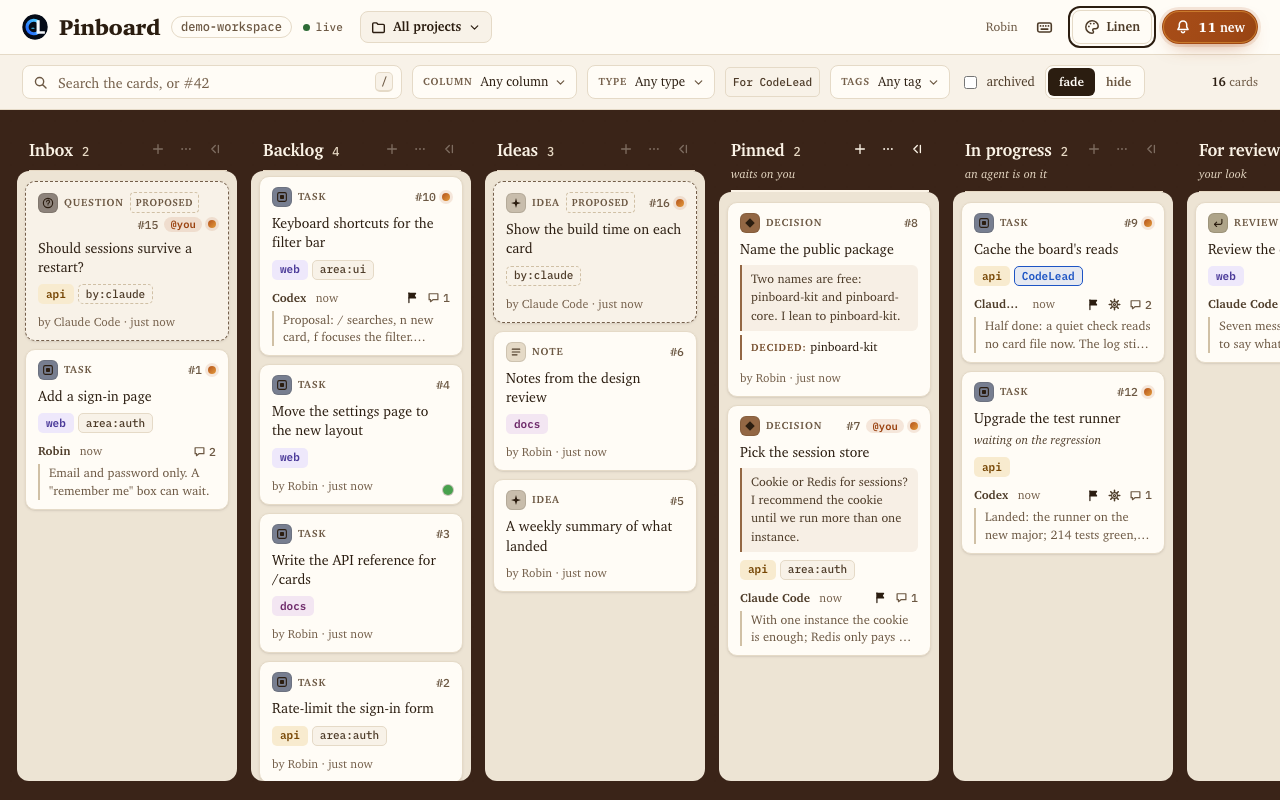
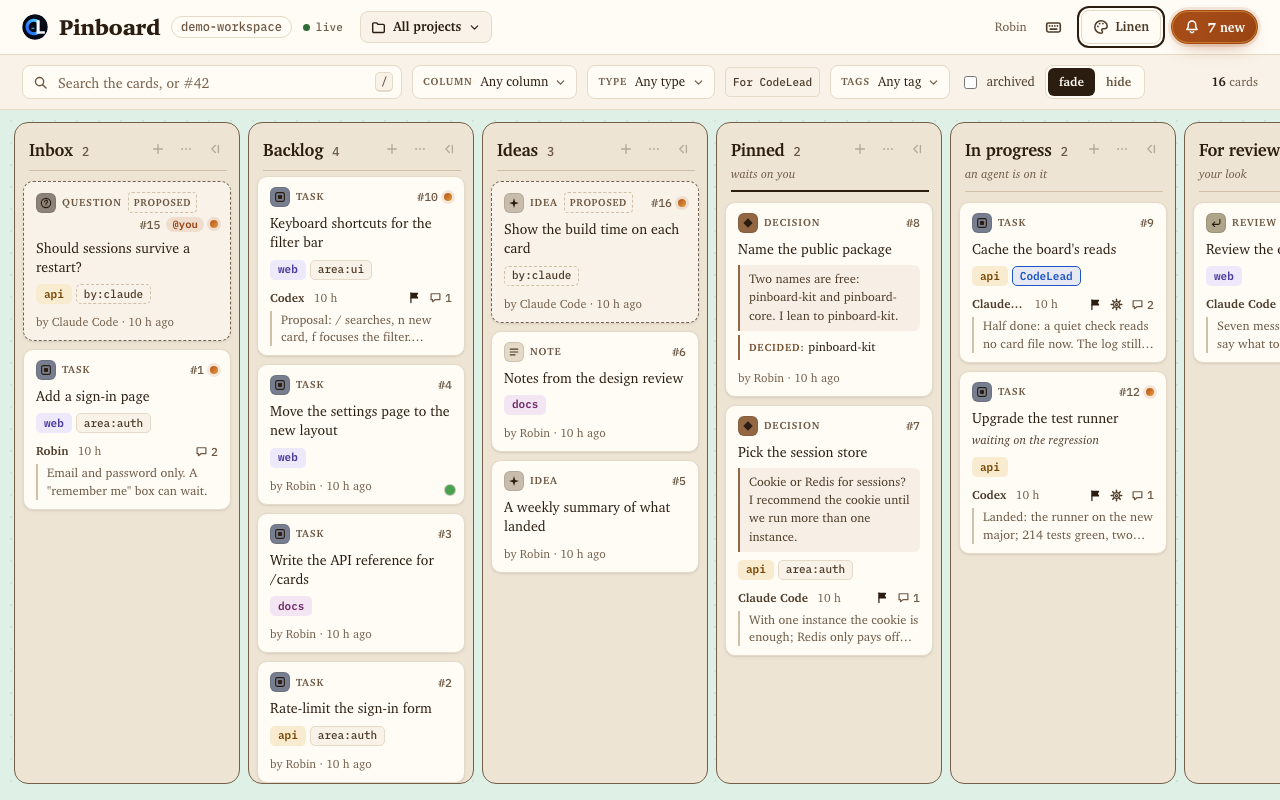
page: a picked background is the board's backdrop only; each column keeps its surface
With a board background of the person's own, the column was made transparent and only its
body kept a surface, so its header (title, count, tools) sat on the picked colour and the
column no longer read as a column. Now the column stays what it is on the theme's own ground:
one rounded surface holding its header and its cards, in the theme's column surface made
opaque (--well-solid), its text in the theme's ink. Collapsed columns the same.

Its edge stands 3:1 apart from the colour for any colour: the column's own line while it
does, else its surface while that does, else the theme's quietest line or text that does
(columnEdge in appearance.mts, applied by App.tsx as --column-edge). What is still drawn on
the colour itself is the board's scrollbar: it takes --board-muted, which keeps switching to
the theme's text for a light or a dark ground.

Tests: every theme on a light green, a dark navy and its own column surface: the column's
fill is the surface, the header inside it, the title at 4.5:1 there, the edge at 3:1 to the
backdrop. Screenshots custom-background.png (Linen on a light green) and
custom-background-dark.png (Ember on a deep teal).

Changed region(s): [[0.0, 0.125, 1.0, 1.0], [0.7812, 0.0, 0.9375, 0.0625]]

diff --git a/src/__tests__/themes.browser.test.ts b/src/__tests__/themes.browser.test.ts
@@ -94,8 +94,8 @@ window.__checks = (() => {
   };
   const faded = (el) => { for (let e = el; e; e = e.parentElement) { if (parseFloat(getComputedStyle(e).opacity) < 1) return true; if (e.matches && e.matches(":disabled")) return true; } return false; };
 
-  /** Text under 'min' to its ground, and control edges under 'edge' to the ground around them. */
-  const contrast = (scope, min, edge) => {
+  /** Text under 'min' to its ground, and the edges of the controls 'edges' names under 'edge' to the ground around them. */
+  const contrast = (scope, min, edge, edges = "button, input, select, textarea, .tile, .select, .search, .field-input") => {
     const low = [];
     const root = document.querySelector(scope) || document.body;
     for (const el of [root, ...root.querySelectorAll("*")]) {
@@ -106,7 +106,7 @@ window.__checks = (() => {
         const r = fg ? ratio(over(fg, behind(el)), behind(el)) : 0;
         if (r < min) low.push("text " + describe(el) + " " + r.toFixed(2) + ": " + el.textContent.trim().slice(0, 30));
       }
-      if (el.matches("button, input, select, textarea, .tile, .select, .search, .field-input")) {
+      if (el.matches(edges)) {
         const cs = getComputedStyle(el);
         const width = parseFloat(cs.borderTopWidth);
         const bc = parse(cs.borderTopColor);
@@ -120,7 +120,15 @@ window.__checks = (() => {
   };
 
   const ratioOf = (fg, bg) => ratio(parse(fg), parse(bg));
-  return { outsideTokens, contrast, ratioOf, behind: (el) => behind(el) };
+
+  /** A column's edge against what is around it: its line drawn over its fill (a transparent line shows the fill), to the ground behind the column. */
+  const edge = (el) => {
+    const cs = getComputedStyle(el);
+    const around = behind(el.parentElement);
+    const fill = over(parse(cs.backgroundColor), around);
+    return ratio(over(parse(cs.borderTopColor), fill), around);
+  };
+  return { outsideTokens, contrast, ratioOf, behind: (el) => behind(el), edge };
 })();
 `;
 
@@ -270,45 +278,61 @@ describe.skipIf(!browser)("themes, projects, the board's background and the bulk
     await page.setViewportSize({ width: 1280, height: 800 });
   }, 120_000);
 
-  it("gives the board a background of the person's own: the columns keep the theme's well, their titles and counts stay at 4.5:1 on the colour", async () => {
-    await showTheme("paper");
-    const colourOf = (selector: string) => (): Promise<string> => page.evaluate(`getComputedStyle(document.querySelector(${JSON.stringify(selector)})).color`) as Promise<string>;
-    const title = colourOf("[data-column=backlog] .column-title h2");
-    const count = colourOf("[data-column=backlog] .column-head .count");
-    const ownTitle = await title();
-    const ownCount = await count();
-    const wellOnPaper = String(await page.evaluate("getComputedStyle(document.documentElement).getPropertyValue('--well-solid')")).trim();
-    // A dark colour on a light theme: the titles and counts switch to the theme's text for a dark ground.
+  it("keeps each column one surface on a background of the person's own: the theme's column surface holds the header and the cards, the title reads at 4.5:1 there, the edge stands 3:1 apart from the colour", async () => {
+    const token = (name: string): Promise<string> => page.evaluate(`getComputedStyle(document.documentElement).getPropertyValue(${JSON.stringify(name)}).trim()`) as Promise<string>;
+    const rgb = (hex: string): string => `rgb(${[1, 3, 5].map((at) => parseInt(hex.slice(at, at + 2), 16)).join(", ")})`;
+    interface Column {
+      id: string;
+      fill: string;
+      behindTitle: string;
+      headInside: boolean;
+      title: number;
+      edge: number;
+    }
+    const columns = (): Promise<Column[]> =>
+      evaluate<Column[]>(
+        "[...document.querySelectorAll('.column')].map((column) => { const head = column.querySelector('.column-head, .column-strip'); const title = column.querySelector('.column-title h2, .strip-name'); const c = column.getBoundingClientRect(), h = head.getBoundingClientRect(); const fill = getComputedStyle(column).backgroundColor; const b = window.__checks.behind(title); return { id: column.dataset.column, fill, behindTitle: 'rgb(' + [b.r, b.g, b.b].map(Math.round).join(', ') + ')', headInside: h.left >= c.left && h.right <= c.right && h.top >= c.top && h.bottom <= c.bottom, title: window.__checks.ratioOf(getComputedStyle(title).color, fill), edge: window.__checks.edge(column) }; })"
+      );
+    for (const theme of THEMES) {
+      await showTheme(theme.id);
+      const surface = await token("--well-solid");
+      // A light green, a dark navy, and the theme's own column surface.
+      for (const background of ["#dff1e6", "#1a2a3a", surface]) {
+        await showTheme(theme.id, background);
+        const where = `${theme.id} on ${background}`;
+        expect(await page.evaluate("getComputedStyle(document.querySelector('.board')).backgroundColor"), where).toBe(rgb(background));
+        const shown = await columns();
+        // Done is collapsed at this width: a collapsed column is held to the same.
+        expect(shown.map((column) => column.id), where).toContain("done");
+        for (const column of shown) {
+          expect(column.fill, `${where}: ${column.id}'s surface`).toBe(rgb(surface));
+          if (background !== surface) expect(column.fill, `${where}: ${column.id}`).not.toBe(rgb(background));
+          expect(column.behindTitle, `${where}: behind ${column.id}'s title`).toBe(rgb(surface));
+          expect(column.headInside, `${where}: ${column.id}'s header`).toBe(true);
+          expect(column.title, `${where}: ${column.id}'s title`).toBeGreaterThanOrEqual(4.5);
+          expect(column.edge, `${where}: ${column.id}'s edge`).toBeGreaterThanOrEqual(3);
+        }
+        // The cards keep the theme's surface.
+        expect(await page.evaluate("getComputedStyle(document.querySelector(\".tile[data-card='2']\")).backgroundColor"), where).toBe(await page.evaluate("(() => { const p = document.createElement('span'); p.style.color = 'var(--surface)'; document.body.appendChild(p); const c = getComputedStyle(p).color; p.remove(); return c; })()"));
+      }
+    }
+    // What is still drawn on the colour itself, the board's scrollbar, switches to stay readable: Paper's text for a dark ground on a dark navy.
     await showTheme("paper", "#1a2a3a");
-    expect(await page.evaluate("getComputedStyle(document.querySelector('.board')).backgroundColor")).toBe("rgb(26, 42, 58)");
-    await expect.poll(title).toBe("rgb(244, 247, 251)");
-    expect(await count()).toBe("rgb(195, 206, 224)");
-    const ratios = await evaluate<number[]>(
-      "[...document.querySelectorAll('.column-title h2, .column-head .count, .column-note')].map((el) => { const fg = getComputedStyle(el).color; const bg = window.__checks.behind(el); return window.__checks.ratioOf(fg, 'rgb(' + bg.r + ', ' + bg.g + ', ' + bg.b + ')'); })"
-    );
-    expect(ratios.length).toBeGreaterThan(8);
-    for (const value of ratios) expect(value).toBeGreaterThanOrEqual(4.5);
-    // The cards keep the theme's surface, and the columns' wells their look on the theme's own ground.
-    expect(await page.evaluate("getComputedStyle(document.querySelector(\".tile[data-card='2']\")).backgroundColor")).toBe("rgb(255, 255, 255)");
-    expect(wellOnPaper).toBe("#e5ebf5");
-    expect(await page.evaluate("getComputedStyle(document.querySelector('[data-column=backlog] .column-body')).backgroundColor")).toBe("rgb(229, 235, 245)");
-    // A pale colour on a dark theme: the theme's text for a light ground.
-    await showTheme("navy", "#e7eaee");
-    await expect.poll(title).toBe("rgb(11, 22, 48)");
-    expect(await count()).toBe("rgb(61, 75, 102)");
-    // White on a light theme: the theme's own text reads there, and stays.
+    expect(await token("--board-muted")).toBe("#c3cee0");
+    expect(String(await page.evaluate("getComputedStyle(document.querySelector('.board')).scrollbarColor"))).toMatch(/^rgb\(195, 206, 224\)/);
     await showTheme("paper", "#ffffff");
-    await expect.poll(title).toBe(ownTitle);
-    expect(await count()).toBe(ownCount);
+    expect(await token("--board-muted")).toBe(await token("--muted"));
     // Picked from the menu: kept in the preferences.
     await page.getByTestId("theme").click();
     await page.locator("[data-background='#dcebf7']").click();
     await expect.poll(() => (JSON.parse(fs.readFileSync(preferencesFile(), "utf8")) as { default: { background?: string } }).default.background).toBe("#dcebf7");
     await page.keyboard.press("Escape");
-    await showTheme("linen", "#3a2418");
+    await showTheme("linen", "#dff1e6");
     await shot("custom-background");
+    await showTheme("ember", "#0f2a2c");
+    await shot("custom-background-dark");
     await showTheme("paper");
-  }, 60_000);
+  }, 120_000);
 
   it("picks cards with Cmd/Ctrl-click, x, Shift-click and a column's menu, keeps the pick through live changes, and Esc clears it", async () => {
     await showTheme("paper");

diff --git a/src/page/src/styles.css b/src/page/src/styles.css
@@ -1986,7 +1986,7 @@ kbd {
 
 .column-title h2 {
   margin: 0;
-  color: var(--board-ink);
+  color: var(--ink);
   font-family: var(--font-display);
   font-size: 17px;
   font-weight: 680;
@@ -2000,11 +2000,6 @@ kbd {
   font: 500 12px/1 var(--font-mono);
   font-variant-numeric: tabular-nums;
   white-space: nowrap;
-}
-
-.column-head .count,
-.column-strip .count {
-  color: var(--board-muted);
 }
 
 /* Over the column's limit: the danger colour, and an underline, so that colour is not the only sign. */
@@ -2030,7 +2025,7 @@ kbd {
 
 .column-note {
   margin: 3px 0 0;
-  color: var(--board-muted);
+  color: var(--muted);
   font-size: 12px;
   font-style: italic;
 }
@@ -2080,7 +2075,7 @@ kbd {
   border: 0;
   border-radius: 14px;
   background: transparent;
-  color: var(--board-ink);
+  color: var(--ink);
 }
 
 .strip-name {
@@ -3632,42 +3627,28 @@ dialog.confirm p {
 /* ---- a board background of the person's own ---------------------------------------------------- */
 
 /*
- * The picked colour is the board's backdrop: each column's cards keep the theme's well (opaque, as it
- * looks on the theme's own ground), and the column's title, count and note are drawn on the colour
- * itself, in --board-ink and --board-muted, which App.tsx switches to the theme's text for a light or a
- * dark ground when the theme's own would read under 4.5:1 there.
+ * The picked colour is the board's backdrop only. Each column stays what it is on the theme's own
+ * ground: one rounded surface holding its header and its cards, in the theme's column surface made
+ * opaque (--well-solid: the translucent well would take the colour's tint), its text in the theme's own
+ * ink. Its edge stands 3:1 apart from the colour: the column's fill is that edge when the two are far
+ * apart; when they are close, App.tsx gives the column a line that is (--column-edge, appearance.mts).
+ * What is still drawn on the colour itself (the gaps between the columns, the board's scrollbar) takes
+ * --board-ink and --board-muted, which App.tsx switches to the theme's text for a light or a dark
+ * ground when the theme's own would read under 4.5:1 there.
  */
 :root[data-background] .column {
-  border-color: transparent;
-  background: transparent;
+  border-color: var(--column-edge, var(--well-line));
+  background: var(--well-solid);
   backdrop-filter: none;
 }
 
-:root[data-background] .column-body {
-  margin: 0 2px 2px;
-  border-radius: 12px;
+:root[data-background] .column.drop-target {
+  border-color: var(--ink-2);
   background: var(--well-solid);
 }
 
-:root[data-background] .column.drop-target .column-body {
-  outline: 2px dashed var(--board-ink);
-  outline-offset: -2px;
-}
-
-:root[data-background] .column-head::after {
-  background: var(--board-muted);
-}
-
-:root[data-background] .column-person .column-head::after {
-  background: var(--board-ink);
-}
-
-:root[data-background] .column-tools .icon-button {
-  color: var(--board-ink);
-}
-
-:root[data-background] .column-collapsed {
-  border-color: var(--board-muted);
+:root[data-background] .board {
+  scrollbar-color: var(--board-muted) transparent;
 }
 
 /* ---- projects: the selector at the left of the top bar ------------------------------------------ */

diff --git a/src/__tests__/pageModel.test.ts b/src/__tests__/pageModel.test.ts
@@ -1,5 +1,5 @@
 import { describe, expect, it } from "vitest";
-import { BACKGROUNDS, backdropText, contrast, parseColour } from "../page/src/appearance.mjs";
+import { BACKGROUNDS, backdropText, columnEdge, contrast, EDGE_CONTRAST, parseColour } from "../page/src/appearance.mjs";
 import { inProject, NO_PROJECT, projectEntries, projectLabel, projectNamesOf, projectTags, readProject } from "../page/src/projects.mjs";
 import { extend, inBoardOrder, prune, selectAll, toggle } from "../page/src/selection.mjs";
 
@@ -86,6 +86,27 @@ describe("the board's background", () => {
     // A mid grey: the ink still reads, the muted text does not and takes the darker one.
     expect(backdropText(paper, "#c8ccd2")).toEqual({ ink: "#0b1630", muted: "#3d4b66" });
     expect(backdropText(paper, "not a colour")).toBeUndefined();
+  });
+
+  it("keeps a column's own edge while it stands 3:1 apart from the colour, then its surface's, then the theme's quietest colour that does", () => {
+    const lines = ["#c4cfe0", "#66738b", "#5b6b86", "#31405c", "#0b1630", "#3d4b66", "#c3cee0", "#0b1630", "#f4f7fb"];
+    const well = "#e5ebf5";
+    // A dark navy: the light column is its own edge, through its transparent line.
+    expect(columnEdge(well, "transparent", "#1a2a3a", lines)).toBeUndefined();
+    // A light green, and the column's own surface: the first line that stands 3:1 apart.
+    for (const background of ["#dff1e6", well]) {
+      const edge = columnEdge(well, "transparent", background, lines)!;
+      expect(edge).toBe("#66738b");
+      expect(contrast(parseColour(edge)!, parseColour(background)!)).toBeGreaterThanOrEqual(EDGE_CONTRAST);
+    }
+    // A grey line of a high-contrast theme: kept on a light colour, given the white surface's colour on a dark one.
+    expect(columnEdge("#ffffff", "#6b6b6b", "#dff1e6", lines)).toBeUndefined();
+    expect(columnEdge("#ffffff", "#6b6b6b", "#1a2a3a", lines)).toBe("#ffffff");
+    // A mid grey close to a dark theme's column: the light text does it.
+    const navy = ["#2a3a5a", "#7787a3", "#8fa0bc", "#c3cee0", "#e8eef8", "#3d4b66", "#c3cee0", "#0b1630", "#e8eef8"];
+    const edge = columnEdge("#0b1222", "transparent", "#2a3346", navy)!;
+    expect(contrast(parseColour(edge)!, parseColour("#2a3346")!)).toBeGreaterThanOrEqual(EDGE_CONTRAST);
+    expect(columnEdge(well, "transparent", "not a colour", lines)).toBeUndefined();
   });
 
   it("offers twelve backgrounds for each lightness, light ones that keep a dark ink readable and dark ones that keep a light ink readable", () => {

diff --git a/src/page/src/App.tsx b/src/page/src/App.tsx
@@ -17,7 +17,7 @@ import type {
 } from "../../server/contract.js";
 import { choicesFor, defaultPreferences, effectiveTheme, THEME_BACKGROUND } from "../../core/themes.js";
 import { api, Refused, wordsOf } from "./api.js";
-import { backdropText } from "./appearance.mjs";
+import { backdropText, columnEdge } from "./appearance.mjs";
 import { BoardView } from "./Board.js";
 import { BulkBar } from "./BulkBar.js";
 import { CardPanel, type PanelActions } from "./CardPanel.js";
@@ -410,15 +410,19 @@ export function App() {
     const background = themeChoices.background;
     const clear = (...names: string[]): void => names.forEach((name) => root.style.removeProperty(name));
     if (background === THEME_BACKGROUND) {
-      clear("--board-bg", "--board-ink", "--board-muted");
+      clear("--board-bg", "--board-ink", "--board-muted", "--column-edge");
       root.removeAttribute("data-background");
       return;
     }
     root.style.setProperty("--board-bg", background);
     root.setAttribute("data-background", background);
-    // The text on the backdrop keeps the theme's ink while it reads at 4.5:1 on the picked colour.
     const style = getComputedStyle(root);
     const token = (name: string): string => style.getPropertyValue(name).trim();
+    // The columns keep the theme's surface; a line around each when that surface is close to the colour.
+    const edge = columnEdge(token("--well-solid"), token("--well-line"), background, ["--line-2", "--faint", "--muted", "--ink-2", "--ink", "--muted-on-light", "--muted-on-dark", "--ink-on-light", "--ink-on-dark"].map(token));
+    if (edge) root.style.setProperty("--column-edge", edge);
+    else clear("--column-edge");
+    // What is drawn on the backdrop itself keeps the theme's ink while it reads at 4.5:1 on the picked colour.
     const text = backdropText(
       { ink: token("--ink"), muted: token("--muted"), inkOnLight: token("--ink-on-light"), inkOnDark: token("--ink-on-dark"), mutedOnLight: token("--muted-on-light"), mutedOnDark: token("--muted-on-dark") },
       background

diff --git a/README.md b/README.md
@@ -263,8 +263,9 @@ Each theme reads in its own font. The text is the same size in all of them. The 
 the package: the page needs no network.
 
 **Board background.** In the same menu: the theme's own, one of twelve colours that suit the
-theme, or any colour. The cards and columns keep the theme's look. When a column's title would be
-hard to read on your colour, it switches to a lighter or darker text by itself.
+theme, or any colour. Your colour is the backdrop only: each column keeps the theme's look, one
+surface with its title and its cards. When the column's surface is close to your colour, a line
+around each column keeps it apart by itself.
 
 **Kept per project.** Pick Ember while `api` is shown, and `api` opens in Ember next time.
 **All projects** keeps the default; **Use the default** forgets a project's own choice. The
